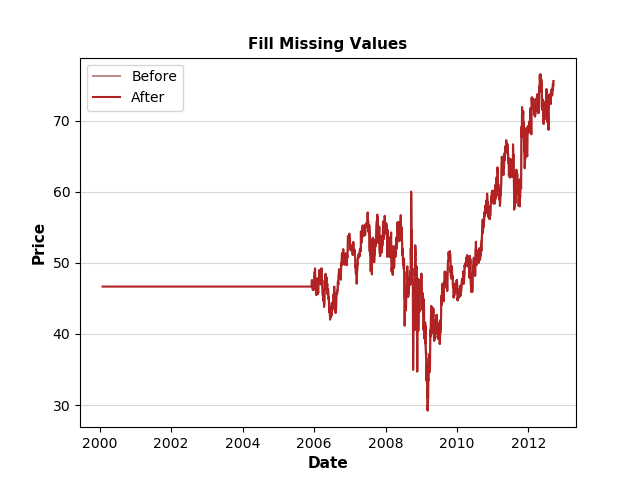
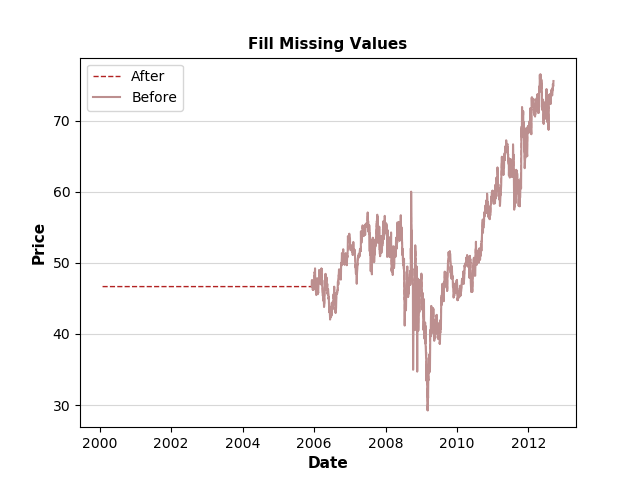
feat: Issue#1 implemented.
Issue #1 implemented. New arguments added in the _plot module of the
tradingti.utils package. Additionally, the colors_palette argument name
and initial value updated. This change caused some updates in the
indicators classes. Examples for modules _plot and _data_preprocessing
updated accordingly.

Changed region(s): [[0.1562, 0.1562, 0.875, 0.8438], [0.1562, 0.125, 0.2812, 0.2188]]

diff --git a/tradingti/utils/_plot.py b/tradingti/utils/_plot.py
@@ -7,7 +7,7 @@ enail: vsaveris@gmail.com
 
 License: MIT
 
-Date last modified: 22.01.2020
+Date last modified: 29.01.2020
 
 Python Version: 3.6
 '''
@@ -15,14 +15,10 @@ Python Version: 3.6
 import matplotlib.pyplot as plt
 from ._data_validation import validateDataframe
 
-'''
-Constants
-'''
-C_DEFAULT_COLORS_PALETTE = ['rosybrown', 'firebrick', 'olivedrab']
-
 
 def lineGraph(data, title = 'Untitled Graph', x_label = 'Date', y_label = 'Price', 
-    colors_palette = C_DEFAULT_COLORS_PALETTE, linewidth = [None], linestyle = [None], alpha = [None]:
+    lines_color = [None], lines_width = [None], lines_style = [None],
+    alpha_values = [None]):
     '''
     Returns a lines graph of type matplotlib.pyplot.
     
@@ -41,16 +37,27 @@ def lineGraph(data, title = 'Untitled Graph', x_label = 'Date', y_label = 'Price
         y_label (string): The label of the y-axis of the graph. Default value
             is `Price`.
             
-        colors_palette (list of matplotlib.colors): The colors to be used for
+        lines_color (list of matplotlib.colors): The colors to be used for
             each line of the graph, in the defined order. In case where the lines 
             are more than the colors, then the list is scanned again from the zero
             index.
         
-        linewidth (list of floats): float value in points
+        lines_width (list of floats): Width of each line, to be used in the call
+            of the matplotlib.pyplot.plot method. In case where the lines 
+            are more than the members of the list, then the list is scanned again 
+            from the zero index.
         
-        linestyle (list of strings):
+        lines_style (list of strings): Style of each line, to be used in the call
+            of the matplotlib.pyplot.plot method. In case where the lines 
+            are more than the members of the list, then the list is scanned again 
+            from the zero index. See: 
+            https://matplotlib.org/gallery/lines_bars_and_markers/linestyles.html 
+            for possible values.
         
-        alpha (list of floats): value used for blending
+        alpha_values (list of floats): Alpha value of each line, to be used in the call
+            of the matplotlib.pyplot.plot method. In case where the lines 
+            are more than the members of the list, then the list is scanned again 
+            from the zero index.
         
     Raises:
         TypeError()
@@ -77,7 +84,9 @@ def lineGraph(data, title = 'Untitled Graph', x_label = 'Date', y_label = 'Price
     i = 0 # Used for colors use in rotation
     for line_name in data.columns.values:
         plt.plot(data.index.values, data[line_name], label = line_name, 
-            color = colors_palette[i % len(colors_palette)], linewidth = linewidth[i % len(linewidth)], linestyle = linestyle[i % len(linestyle)], alpha = alpha[i % len(alpha)])
+            color = lines_color[i % len(lines_color)], linewidth = lines_width[i % len(lines_width)], 
+            linestyle = lines_style[i % len(lines_style)], alpha = alpha_values[i % len(alpha_values)])
+            
         i += 1
     
     plt.legend()

diff --git a/tradingti/indicators/_technical_indicator.py b/tradingti/indicators/_technical_indicator.py
@@ -34,7 +34,7 @@ class TI(ABC):
                 
         indicator_name (string): The name of the Technical Indicator.
                 
-        colors_palette (list of matplotlib colors): The colors to be used
+        lines_color (list of matplotlib colors): The colors to be used
             when generating the plot for a Technical Indicator. Default value is
             None (default colors will be used).
 
@@ -46,7 +46,7 @@ class TI(ABC):
                 
         _indicator_name (string): The name of the Technical Indicator.
                 
-        _colors_palette (list of matplotlib colors): The colors to be used
+        _lines_color (list of matplotlib colors): The colors to be used
             when generating the plot for a Technical Indicator.
                                 
     Methods:
@@ -61,12 +61,12 @@ class TI(ABC):
     
     '''
     def __init__(self, input_data, ti_data, indicator_name,
-        colors_palette = None):
+        lines_color = None):
 
         self._input_data = input_data
         self._ti_data = ti_data
         self._indicator_name = indicator_name
-        self._colors_palette = colors_palette
+        self._lines_color = lines_color
         
         
     def getTiPlot(self):
@@ -85,7 +85,7 @@ class TI(ABC):
         '''
         
         return lineGraph(data = pd.concat([self._input_data, self._ti_data, ], axis = 1), 
-            title = self._indicator_name, colors_palette = self._colors_palette)
+            title = self._indicator_name, lines_color = self._lines_color)
 
 
     def getTiData(self):

diff --git a/tradingti/indicators/_trend.py b/tradingti/indicators/_trend.py
@@ -49,13 +49,13 @@ class SMA(AverageTI):
         self._sma_periods = sma_periods
         
         if len(sma_periods) == 1:
-            colors_palette = ['rosybrown', 'g']
+            lines_color = ['rosybrown', 'g']
         else:
-            colors_palette = ['rosybrown', 'g', 'royalblue']
+            lines_color = ['rosybrown', 'g', 'royalblue']
         
         super().__init__(df_data = df_data, calculate_MA = self._calculateSMA,
             indicator_name = 'SMA-' + str(sma_periods), 
-            colors_palette = colors_palette, periods = sma_periods)
+            lines_color = lines_color, periods = sma_periods)
         
     
     def _calculateSMA(self, input_data):
@@ -117,13 +117,13 @@ class EMA(AverageTI):
         self._span_periods = span_periods
 
         if len(span_periods) == 1:
-            colors_palette = ['rosybrown', 'g']
+            lines_color = ['rosybrown', 'g']
         else:
-            colors_palette = ['rosybrown', 'g', 'royalblue']
+            lines_color = ['rosybrown', 'g', 'royalblue']
         
         super().__init__(df_data = df_data, calculate_MA = self._calculateEMA,
             indicator_name = 'EMA-' + str(span_periods),
-            colors_palette = colors_palette, periods = span_periods)
+            lines_color = lines_color, periods = span_periods)
         
     
     def _calculateEMA(self, input_data):

diff --git a/tradingti/indicators/_average_technical_indicator.py b/tradingti/indicators/_average_technical_indicator.py
@@ -33,7 +33,7 @@ class AverageTI(TI):
         
         indicator_name (string): The name of the Technical Indicator.
         
-        colors_palette (list of matplotlib colors): The colors to be used
+        lines_color (list of matplotlib colors): The colors to be used
             when generating the plot for a Technical Indicator. Default value is
             None (default colors will be used).
                 
@@ -63,7 +63,7 @@ class AverageTI(TI):
         
     '''
     
-    def __init__(self, df_data, calculate_MA, indicator_name, colors_palette,
+    def __init__(self, df_data, calculate_MA, indicator_name, lines_color,
         periods):
 
         # Validate the input data, check tradingti.utils._data_validation module
@@ -91,7 +91,7 @@ class AverageTI(TI):
         # Parent class constructor (all job is done here, parent class provides the public
         # interface for accessing the data of the indicator)
         super().__init__(input_data = self._input_data, ti_data = self._ti_data, 
-            indicator_name = indicator_name, colors_palette = colors_palette)
+            indicator_name = indicator_name, lines_color = lines_color)
         
     
     def _inputValidation(self, df_data, periods):

diff --git a/examples/utils/utils_data_preprocessing.py b/examples/utils/utils_data_preprocessing.py
@@ -28,10 +28,13 @@ for data_file in ['example_data_missing_1.csv', 'example_data_missing_2.csv',
         date_parser = lambda x: pd.datetime.strptime(x, '%y/%m/%d'))
 
     # Create a dataframe with original and modified values, for plotting the changes
-    df = pd.concat([df, fillMissingValues(df)], axis = 1)
-    df.columns=['Before','After']
+    df = pd.concat([fillMissingValues(df), df], axis = 1)
+    df.columns=['After', 'Before']
 
-    graph = lineGraph(data = df, title = 'Fill Missing Values')
+    graph = lineGraph(data = df, title = 'Fill Missing Values', 
+        lines_color = ['firebrick', 'rosybrown'], lines_style = ['--', '-'],
+        lines_width = [1, 1.5])
+        
     graph.savefig('./figures/' + data_file.split('.')[0] + '.png')
     graph.clf()
     

diff --git a/examples/utils/utils_plot.py b/examples/utils/utils_plot.py
@@ -7,7 +7,7 @@ enail: vsaveris@gmail.com
 
 License: MIT
 
-Date last modified: 22.01.2020
+Date last modified: 29.01.2020
 
 Python Version: 3.6
 '''
@@ -24,7 +24,8 @@ df = pd.read_csv('./data/example_plot.csv', parse_dates = True, index_col = 0)
 
 # Create the plot (with exception handling)
 try:
-    plt = lineGraph(data = df[['Adj Close']], title = 'Example Graph')
+    plt = lineGraph(data = df[['Adj Close']], title = 'Example Graph', 
+        lines_color = ['rosybrown'])
     
     # Note: Special handling is needed when you call first plt.show() and then
     #       the plt.savefig() for the same figure. See: 
